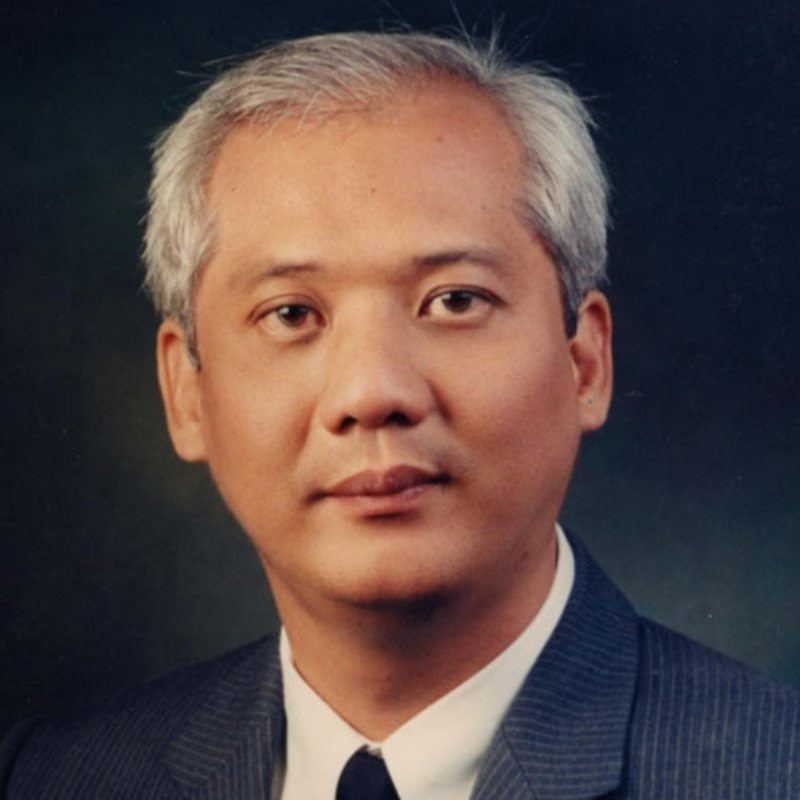
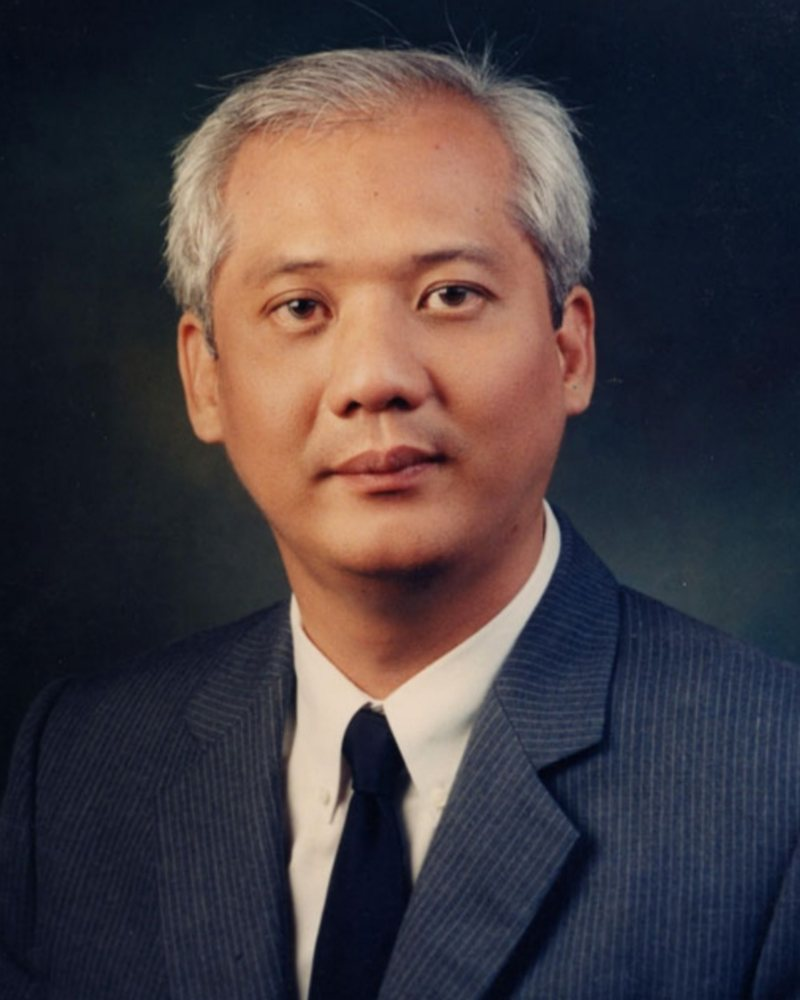
Add files via upload

diff --git a/app/globals.css b/app/globals.css
@@ -1395,3 +1395,20 @@ img.logomark { display: block; flex: none; object-fit: contain; }
 }
 /* Real portrait photos */
 .portrait img { object-position: center 30%; }
+
+/* =========================================================
+   v7: 4:5 portraits beside the bios
+   ========================================================= */
+.hf-side .portrait,
+.lineage-side .portrait {
+  width: 100%;
+  aspect-ratio: 4 / 5;
+  border-radius: 28px;
+}
+.hf-side .portrait img,
+.lineage-side .portrait img { object-position: center top; }
+/* round photos on the home page keep the face centred */
+.healer-card .portrait img { object-position: center 18%; }
+@media (max-width: 900px) {
+  .hf-side .portrait, .lineage-side .portrait { border-radius: 20px; }
+}
